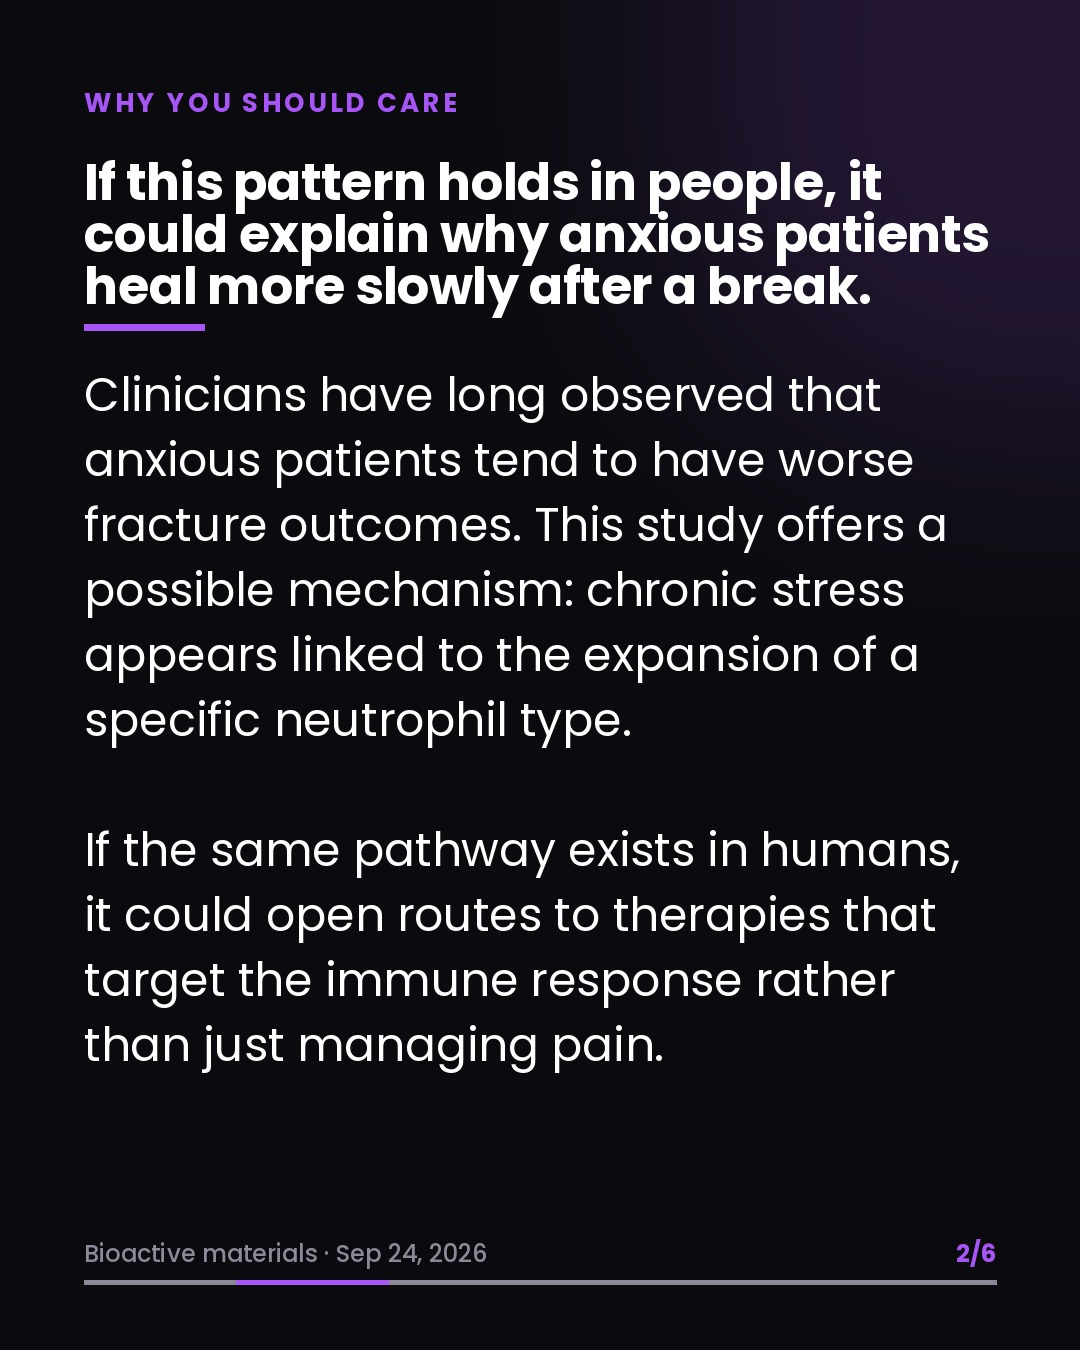
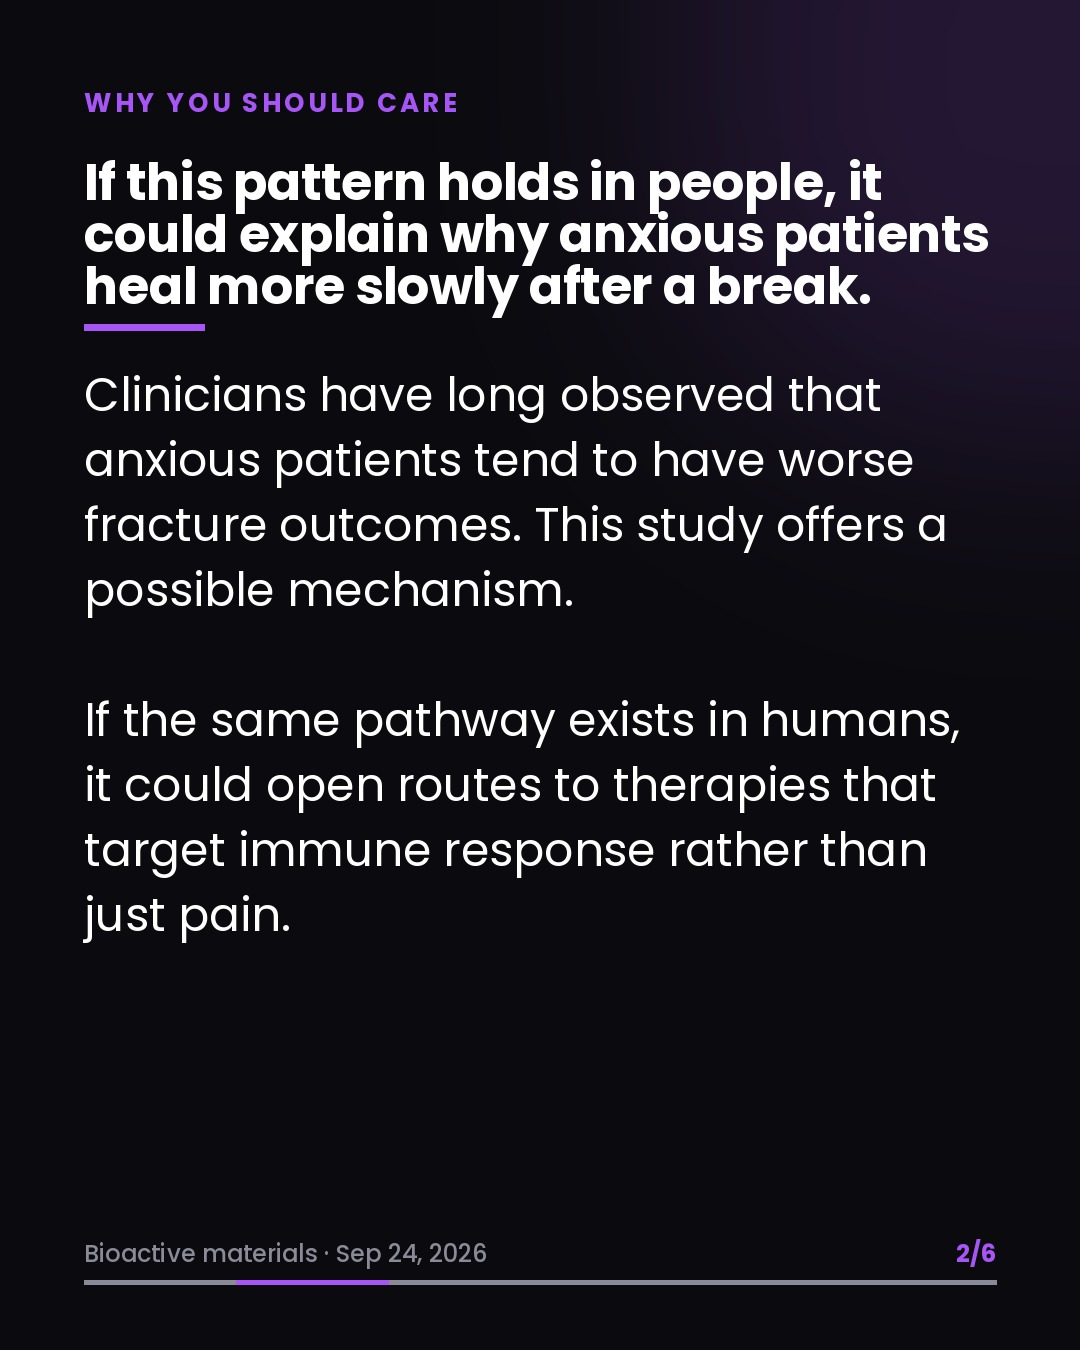
revise: 2026-09-24-psych-76f102ba

Changed region(s): [[0.0611, 0.4044, 0.8861, 0.8089]]

diff --git a/data/queue/2026-09-24-psych-76f102ba.md b/data/queue/2026-09-24-psych-76f102ba.md
@@ -20,15 +20,15 @@
 
 **Basis:** inferred    <!-- stated = the paper says it; inferred = our read, must stay conditional -->
 
-Clinicians have long observed that anxious patients tend to have worse fracture outcomes. This study offers a possible mechanism: chronic stress appears linked to the expansion of a specific neutrophil type.
+Clinicians have long observed that anxious patients tend to have worse fracture outcomes. This study offers a possible mechanism.
 
-If the same pathway exists in humans, it could open routes to therapies that target the immune response rather than just managing pain.
+If the same pathway exists in humans, it could open routes to therapies that target immune response rather than just pain.
 
 ## Slide 2 - What the data says
 
 **Title:** In anxious mice with broken femurs, a subset of neutrophils expanded and blocked the bone cells needed for healing.
 
-The researchers used chronic restraint stress to model anxiety in mice, then induced femoral fractures. Stressed mice showed higher numbers of TGFβ1+CCR5+ neutrophils in bone marrow.
+Chronic restraint stress modeled anxiety in mice with femoral fractures. Stressed mice showed higher numbers of TGFB1+CCR5+ neutrophils in bone marrow.
 
 A targeted nanocarrier delivering AKBA reduced this neutrophil population and sped up fracture repair compared to free drug.
 
@@ -36,11 +36,9 @@ A targeted nanocarrier delivering AKBA reduced this neutrophil population and sp
 
 **Title:** The assumption is that bone healing is mainly about mechanical stability and nutrient supply, not immune cells.
 
-**Basis:** inferred    <!-- stated = the paper says it; inferred = our read, must stay conditional -->
-
 Most fracture care focuses on alignment, casting, and supporting calcium intake. But this work shows neutrophils can form a feedback loop with stem cells that stalls bone formation.
 
-The nanocarrier was designed to home in on neutrophils at the fracture site, solving problems with AKBA's poor solubility.
+The nanocarrier was designed to home in on neutrophils at the fracture site, solving AKBA's poor solubility.
 
 ## Caveats
 
